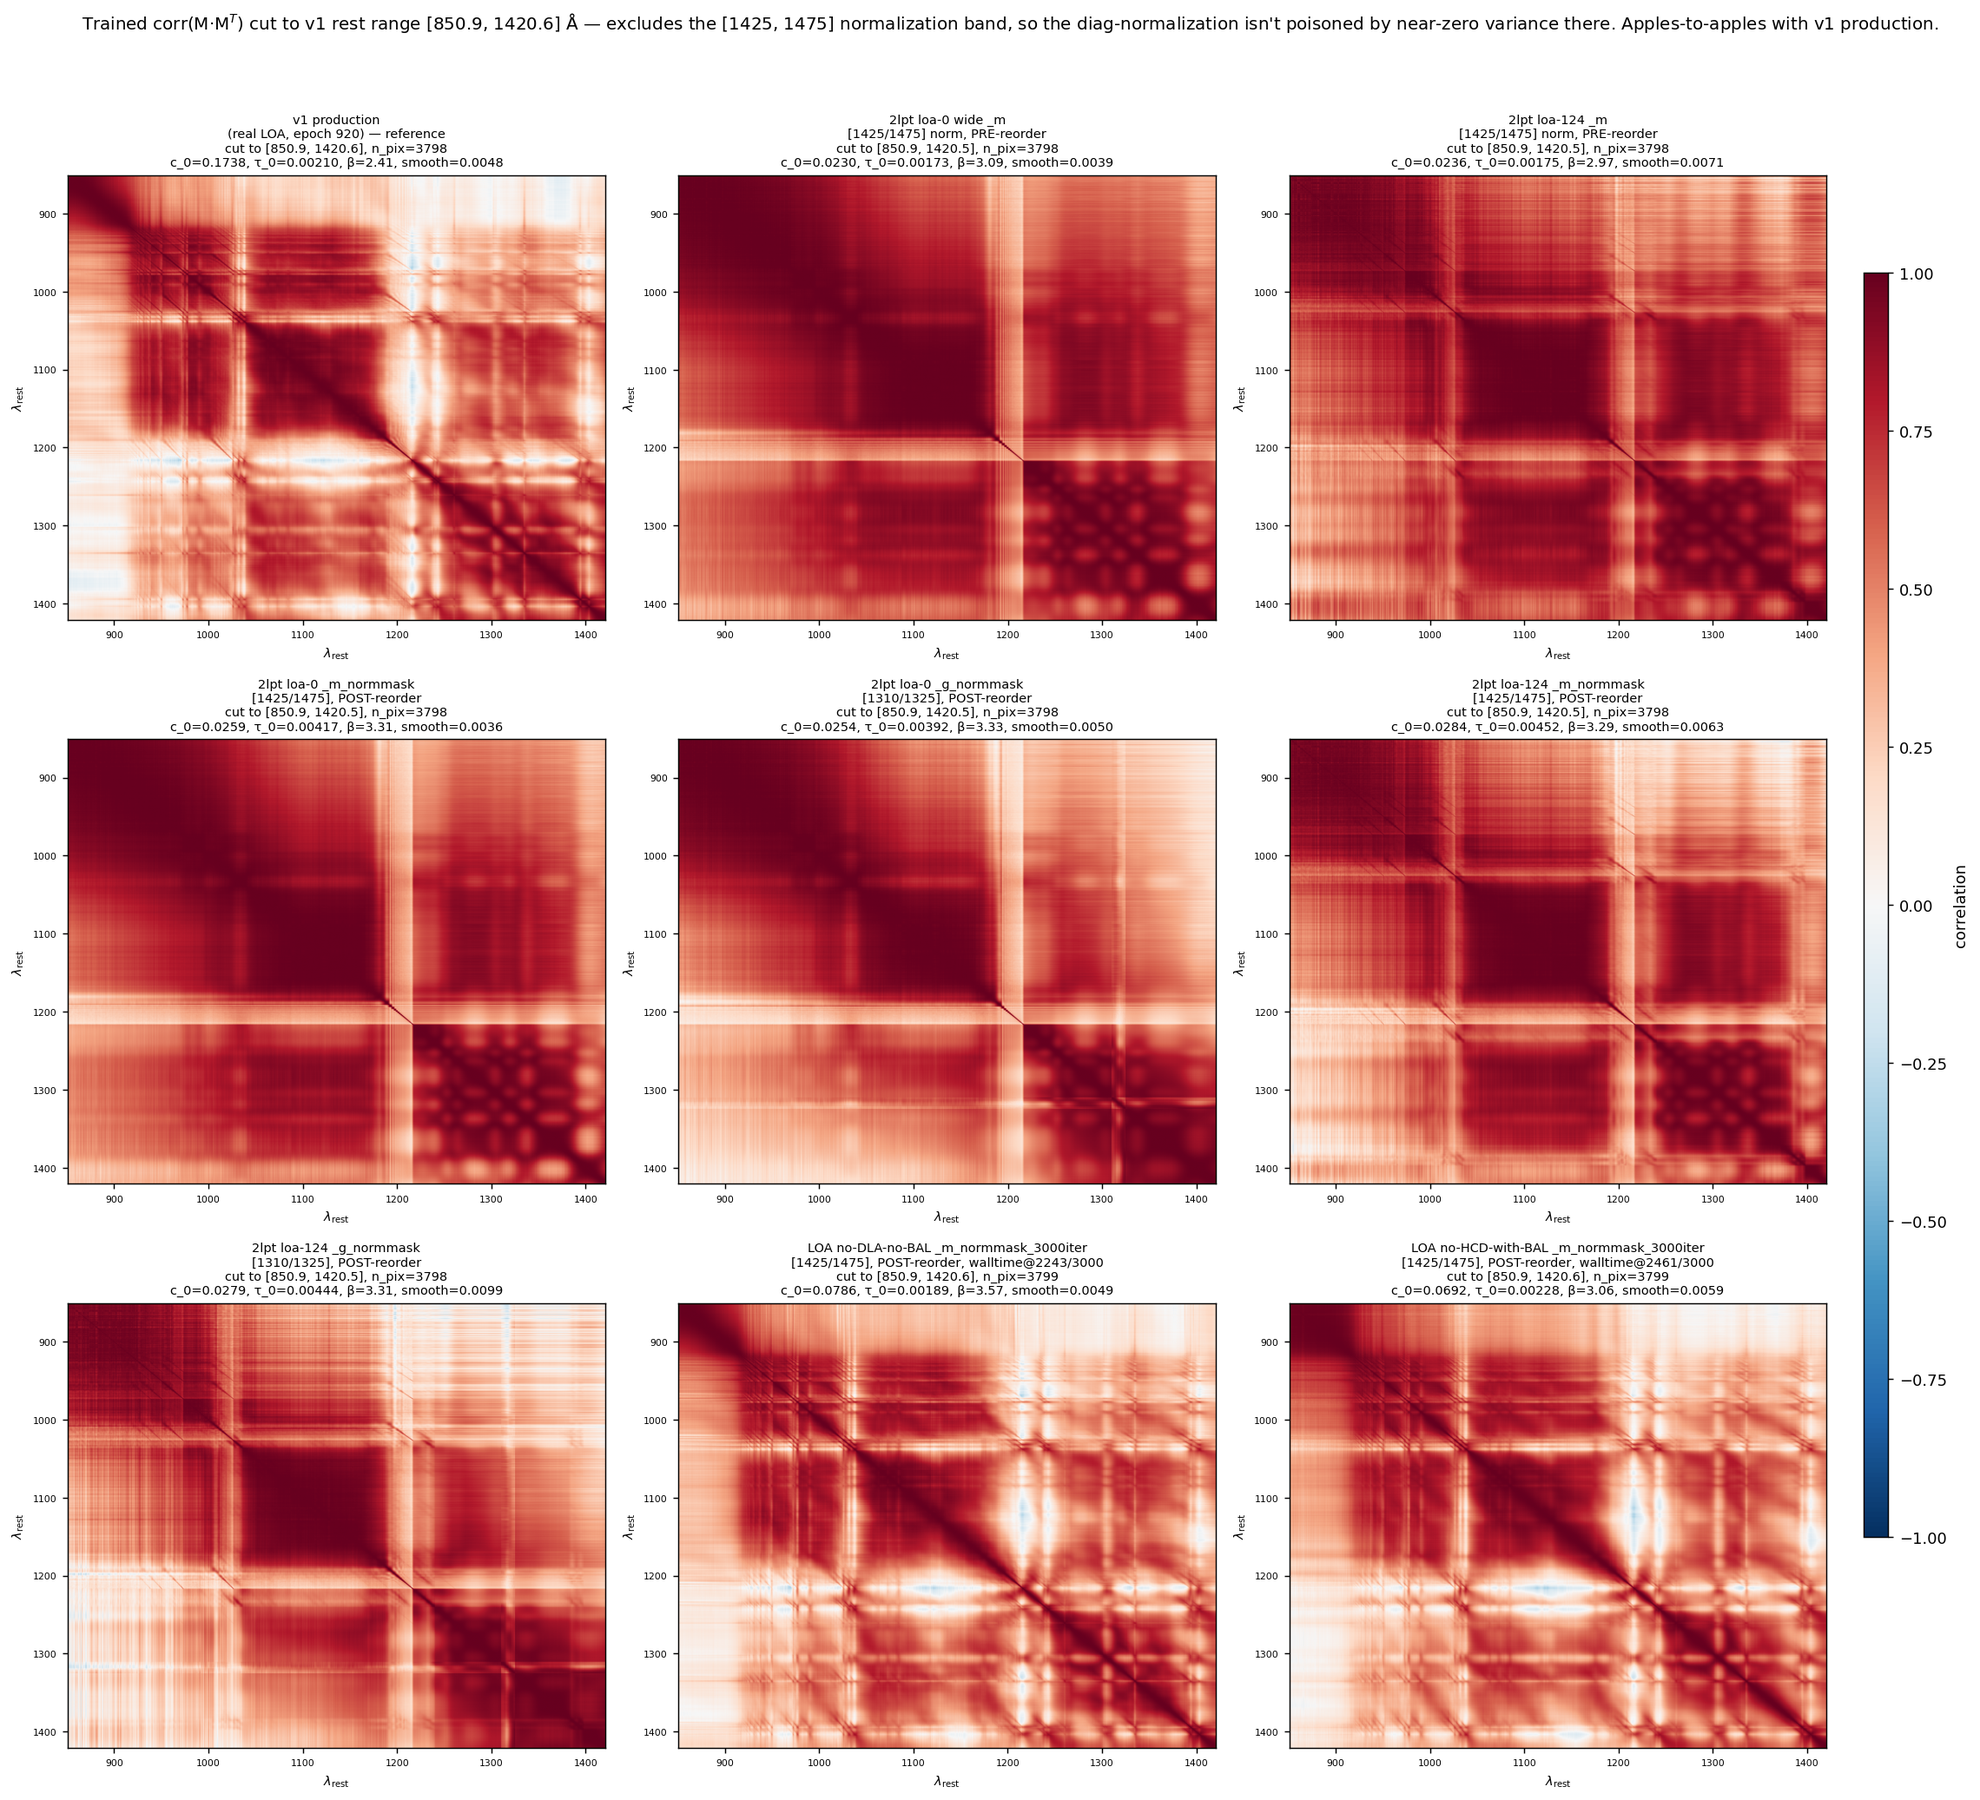
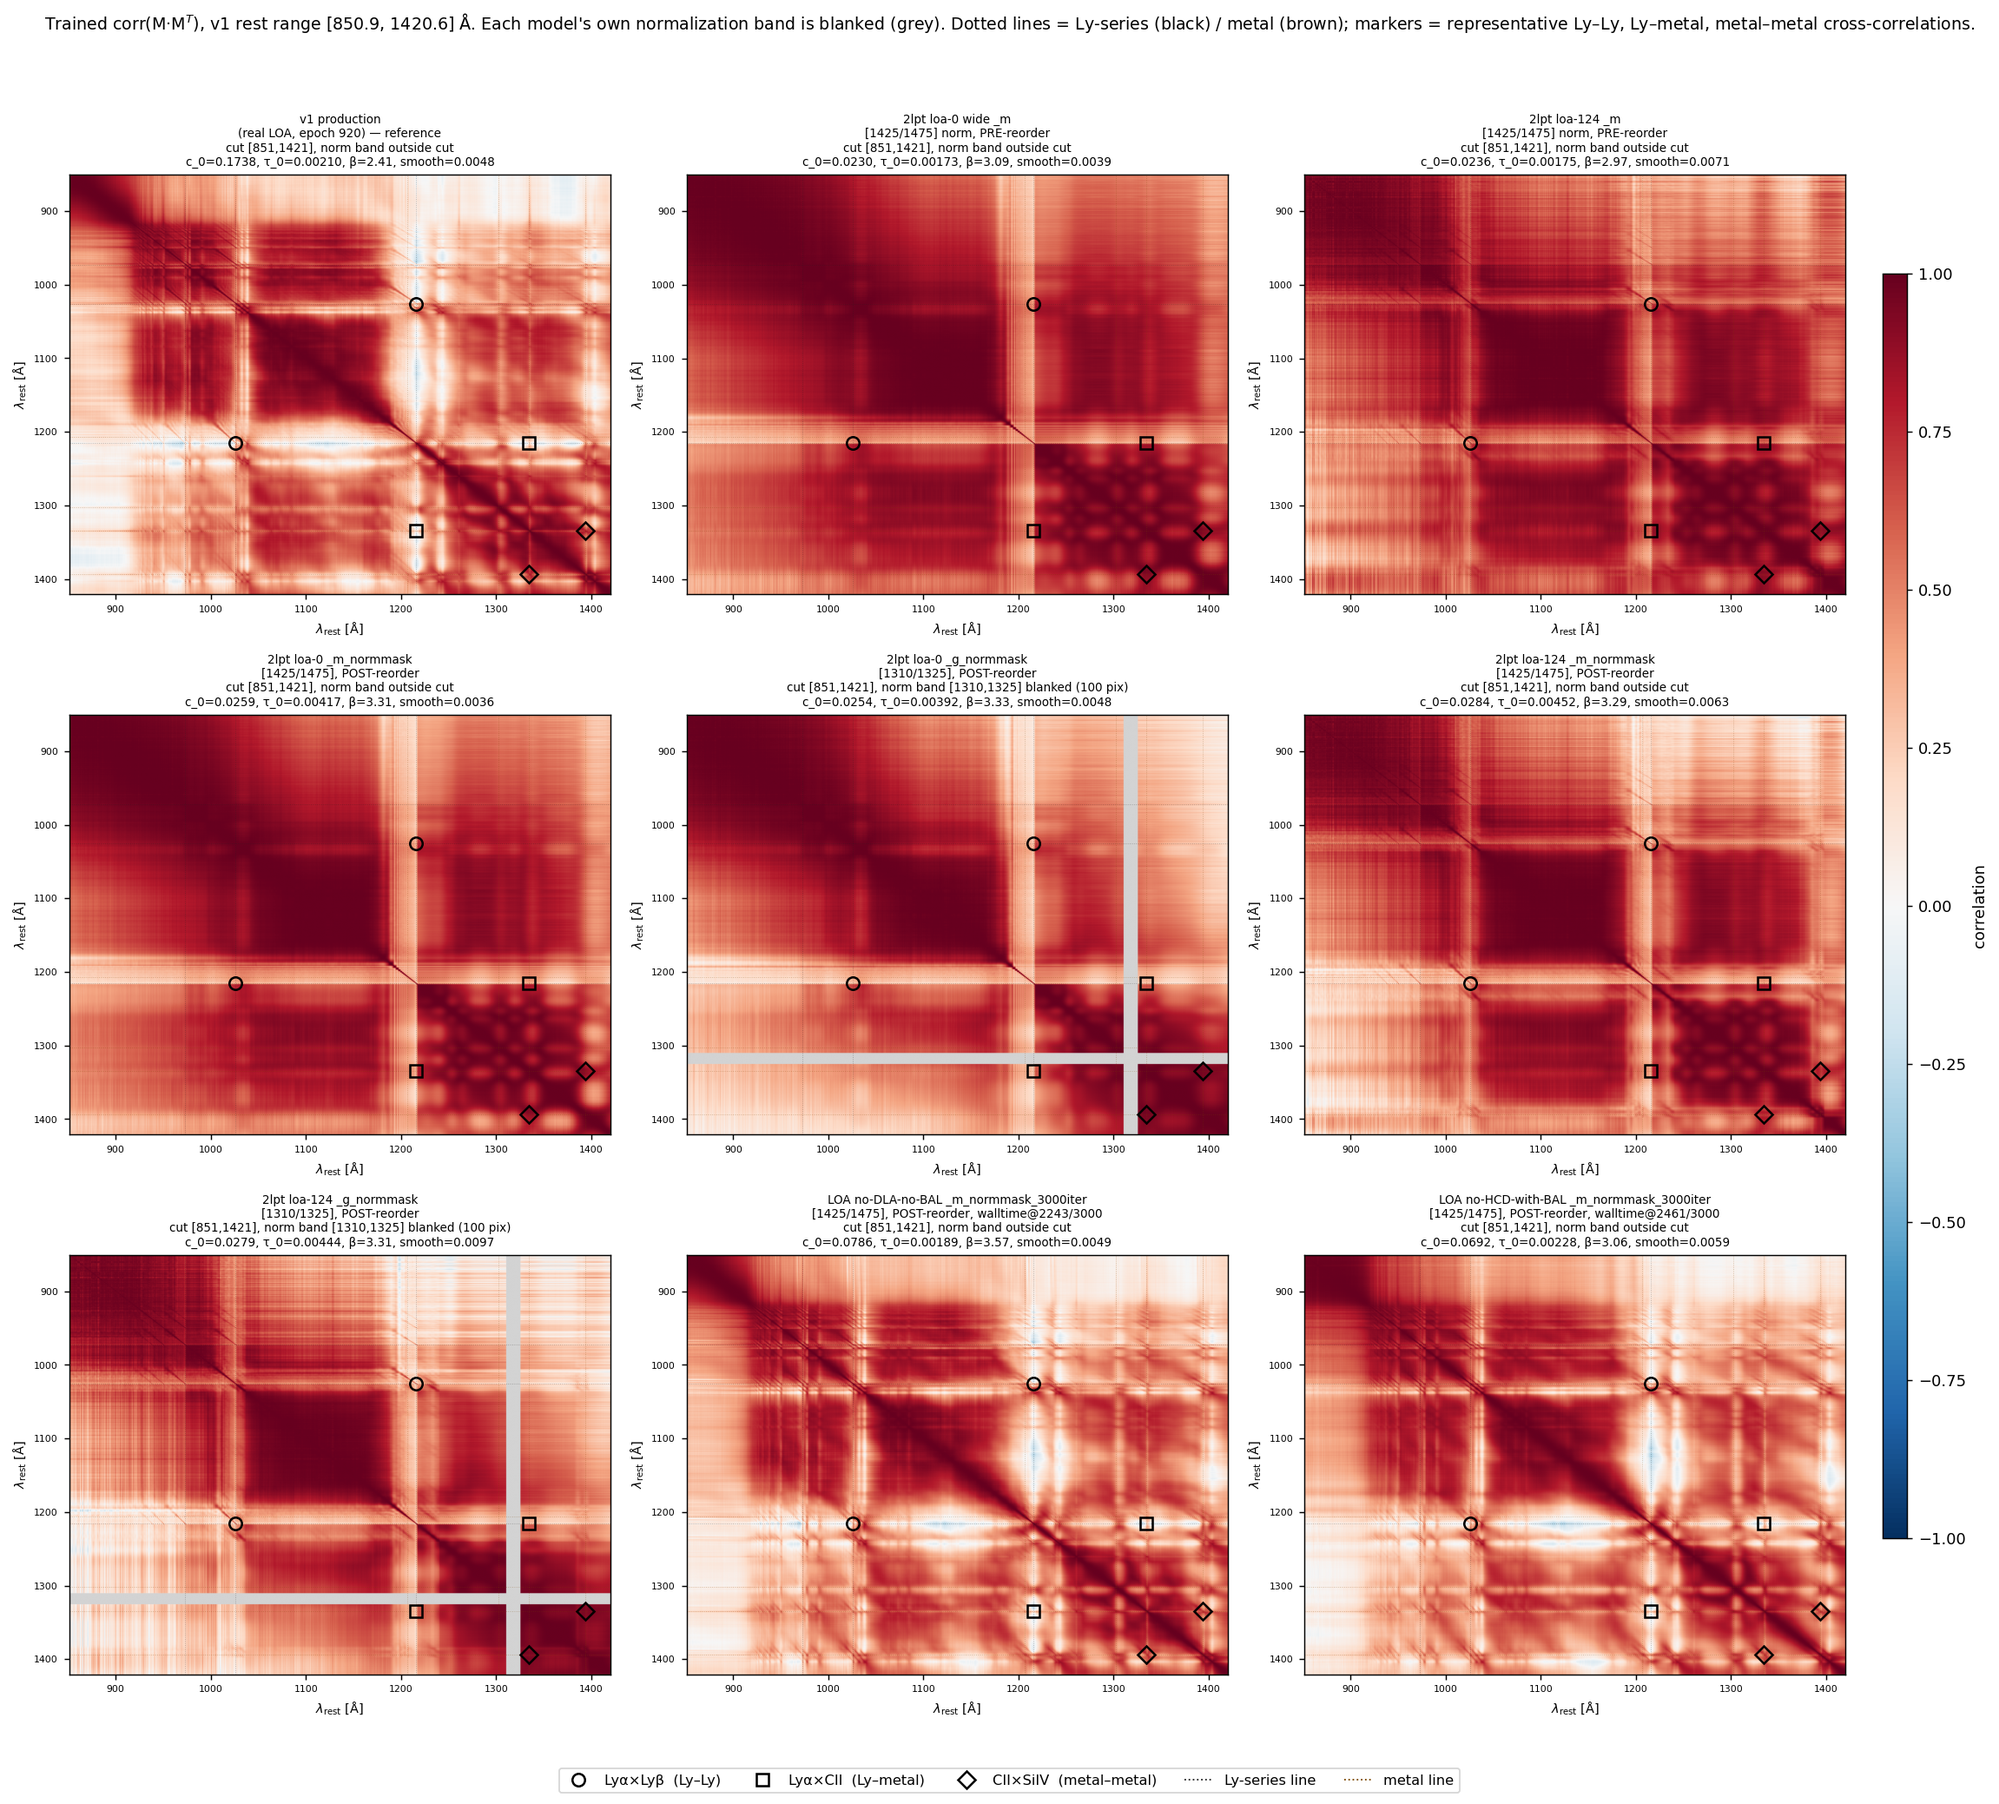
Kernel corr matrices: per-model norm-band blanking + line cross-corr markers
plot_kernels_v1_rest_range.py: the fixed v1-range cut only excluded the
_m models' [1425,1475] normalization band; the _g models' Garnett band
[1310,1325] sits inside the cut and still poisoned the corr-normalization
with a near-zero-variance stripe. Now each model's own normalization band
is read from its .h5 and the corresponding corr rows/cols are blanked
(rendered grey).

Also overlays minimal line annotations: faint Ly-series / metal gridlines
on both axes, and three representative cross-correlation markers — Ly-Ly
(Lyα×Lyβ), Ly-metal (Lyα×CII), metal-metal (CII×SiIV) — so off-diagonal
structure can be read against known transitions.

diff --git a/examples/plot_kernels_v1_rest_range.py b/examples/plot_kernels_v1_rest_range.py
@@ -1,14 +1,24 @@
-"""Compare trained GP kernels on the v1 rest range [850.90, 1420.60].
+"""Compare trained GP kernels — corr(M·M^T) — on the v1 rest range.
 
-Why: the wide v2 rest grid [850.75, 1700] includes the per-spectrum
-normalization region [1425, 1475], where by construction the centered
-flux variance is near zero → K[i,i] = Σ_k M[i,k]² ≈ 0 → corr[i,j] =
-K[i,j]/√(K[i,i]·K[j,j]) blows up. The bright stripes near λ ~ 1450 in
-`2026-05-13_all_trained_kernels.png` are this artifact, NOT physics.
+Why the v1-range cut: the wide v2 rest grid [850.75, 1700] includes each
+model's per-spectrum normalization band, where by construction the
+centered flux variance is near zero -> K[i,i] = Sum_k M[i,k]^2 ~ 0 ->
+corr[i,j] = K[i,j]/sqrt(K[i,i]*K[j,j]) blows up.
 
-Cutting M to rest_λ ≤ 1420.60 (matching v1's grid) eliminates the
-normalization region from the corr-normalization denominator, giving an
-apples-to-apples comparison with v1 production.
+Two-part normalization-band exclusion:
+  1. Cut every model to rest_lambda <= 1420.60 (v1's grid). This drops
+     the MATLAB-band [1425, 1475] used by the `_m` models and keeps the
+     comparison apples-to-apples with v1 production.
+  2. Per model, additionally blank the corr rows/cols inside THAT model's
+     own normalization band (read from the .h5). This catches the
+     Garnett-band [1310, 1325] used by the `_g` models, which sits inside
+     the v1 cut and would otherwise still poison the panel.
+
+Line markers: minimal Ly-series + metal absorption lines are drawn as
+faint gridlines on both axes, and three representative cross-correlation
+points are marked — Ly-Ly (Lya x Lyb), Ly-metal (Lya x CII), and
+metal-metal (CII x SiIV) — so the off-diagonal structure can be read
+against known transitions.
 
 Output: docs/notes/2026-05-13_kernels_v1_rest_range.png
 """
@@ -29,6 +39,17 @@ OUT = NOTES / "2026-05-13_kernels_v1_rest_range.png"
 # v1 rest range — everything else gets cut to this:
 V1_REST_MAX = 1420.60
 V1_REST_MIN = 850.90
+
+# Minimal line set for axis gridlines (vacuum rest Å, within the v1 range).
+LY_LINES = {"Lyγ": 972.54, "Lyβ": 1025.72, "Lyα": 1215.67}
+METAL_LINES = {"SiIII": 1206.50, "OI": 1302.17, "CII": 1334.53, "SiIV": 1393.76}
+
+# Three representative cross-correlation points: (label, kind, λ_x, λ_y).
+CROSS_POINTS = [
+    ("Lyα×Lyβ  (Ly–Ly)",        "o", 1215.67, 1025.72),
+    ("Lyα×CII  (Ly–metal)",     "s", 1215.67, 1334.53),
+    ("CII×SiIV  (metal–metal)", "D", 1334.53, 1393.76),
+]
 
 ENTRIES = [
     # (display_name, path, kind)
@@ -66,6 +87,10 @@ ENTRIES = [
 
 
 def _load_M_rest(path, kind):
+    """Return (M, rest_wavelengths, scalars, norm_band).
+
+    norm_band is (min, max) Å read from the .h5, or None if absent."""
+    norm_band = None
     if kind == "h5":
         with h5py.File(path, "r") as f:
             M = np.asarray(f["M"][:], dtype=np.float64)
@@ -73,12 +98,12 @@ def _load_M_rest(path, kind):
             log_c_0 = float(f["log_c_0"][()]) if "log_c_0" in f else float("nan")
             log_tau_0 = float(f["log_tau_0"][()]) if "log_tau_0" in f else float("nan")
             log_beta = float(f["log_beta"][()]) if "log_beta" in f else float("nan")
+            if "normalization_min_lambda" in f and "normalization_max_lambda" in f:
+                norm_band = (float(f["normalization_min_lambda"][()]),
+                             float(f["normalization_max_lambda"][()]))
     else:  # pt
         ckpt = torch.load(path, map_location="cpu", weights_only=False)
         M = ckpt["M"].detach().cpu().numpy().astype(np.float64)
-        # Generate rest grid from M shape (all wide v2 preloads start at
-        # 850.75 with dλ=0.15; LOA has n_pix=5663, 2lpt has 5662 — proxy
-        # h5 lookup gets the count wrong by one).
         n_pix = M.shape[0]
         rest = 850.75 + 0.15 * np.arange(n_pix, dtype=np.float64)
         log_c_0 = float(ckpt["log_c_0"].item())
@@ -87,7 +112,7 @@ def _load_M_rest(path, kind):
     scalars = dict(c_0=float(np.exp(log_c_0)),
                    tau_0=float(np.exp(log_tau_0)),
                    beta=float(np.exp(log_beta)))
-    return M, rest, scalars
+    return M, rest, scalars, norm_band
 
 
 def _cut_to_v1_range(M, rest):
@@ -102,11 +127,29 @@ def _corr(M):
     return np.clip(K / np.outer(d, d), -1.0, 1.0)
 
 
+def _blank_norm_band(C, restc, norm_band):
+    """NaN-out corr rows/cols inside the model's own normalization band so
+    its near-zero-variance stripe doesn't show. Returns (C, n_blanked)."""
+    if norm_band is None:
+        return C, 0
+    lo, hi = norm_band
+    in_band = (restc >= lo) & (restc <= hi)
+    if not in_band.any():
+        return C, 0
+    C = C.copy()
+    C[in_band, :] = np.nan
+    C[:, in_band] = np.nan
+    return C, int(in_band.sum())
+
+
 def main():
     OUT.parent.mkdir(parents=True, exist_ok=True)
     rows, cols = 3, 3
     fig, axes = plt.subplots(rows, cols, figsize=(18, 16))
     axes_flat = axes.flatten()
+
+    cmap = matplotlib.cm.RdBu_r.copy()
+    cmap.set_bad("lightgrey")   # NaN (blanked norm band) renders grey
 
     for ax, (name, path, kind) in zip(axes_flat, ENTRIES):
         if not Path(path).exists():
@@ -116,22 +159,41 @@ def main():
             ax.set_xticks([]); ax.set_yticks([])
             continue
         try:
-            M, rest, sc = _load_M_rest(path, kind)
+            M, rest, sc, norm_band = _load_M_rest(path, kind)
             Mc, restc = _cut_to_v1_range(M, rest)
             C = _corr(Mc)
-            adj = float(np.abs(np.diff(C, axis=1)).mean())
+            C, n_blank = _blank_norm_band(C, restc, norm_band)
+            adj = float(np.nanmean(np.abs(np.diff(C, axis=1))))
             extent = [restc[0], restc[-1], restc[-1], restc[0]]
-            ax.imshow(C, cmap="RdBu_r", vmin=-1, vmax=1,
+            ax.imshow(C, cmap=cmap, vmin=-1, vmax=1,
                       extent=extent, aspect="auto")
+            band_txt = (f"norm band [{norm_band[0]:.0f},{norm_band[1]:.0f}] "
+                        f"blanked ({n_blank} pix)" if n_blank
+                        else "norm band outside cut")
             title = (f"{name}\n"
-                     f"cut to [{restc[0]:.1f}, {restc[-1]:.1f}], "
-                     f"n_pix={len(restc)}\n"
+                     f"cut [{restc[0]:.0f},{restc[-1]:.0f}], {band_txt}\n"
                      f"c_0={sc['c_0']:.4f}, τ_0={sc['tau_0']:.5f}, "
                      f"β={sc['beta']:.2f}, smooth={adj:.4f}")
-            ax.set_title(title, fontsize=8)
-            ax.set_xlabel(r"$\lambda_\mathrm{rest}$", fontsize=8)
-            ax.set_ylabel(r"$\lambda_\mathrm{rest}$", fontsize=8)
+            ax.set_title(title, fontsize=7.5)
+            ax.set_xlabel(r"$\lambda_\mathrm{rest}$ [Å]", fontsize=8)
+            ax.set_ylabel(r"$\lambda_\mathrm{rest}$ [Å]", fontsize=8)
             ax.tick_params(labelsize=6)
+
+            # Faint gridlines at the Ly + metal lines (both axes).
+            for lname, lw_ in {**LY_LINES, **METAL_LINES}.items():
+                if not (restc[0] < lw_ < restc[-1]):
+                    continue
+                is_ly = lname in LY_LINES
+                col = "#222222" if is_ly else "#7a4500"
+                for axline in (ax.axvline, ax.axhline):
+                    axline(lw_, color=col, lw=0.5, ls=":", alpha=0.30)
+            # Three representative cross-correlation points.
+            for label, marker, lx, ly in CROSS_POINTS:
+                if (restc[0] < lx < restc[-1]) and (restc[0] < ly < restc[-1]):
+                    ax.plot(lx, ly, marker=marker, ms=8, mfc="none",
+                            mec="black", mew=1.4, linestyle="none")
+                    ax.plot(ly, lx, marker=marker, ms=8, mfc="none",
+                            mec="black", mew=1.4, linestyle="none")
         except Exception as e:
             ax.text(0.5, 0.5, f"{name}\n\nERROR\n{type(e).__name__}",
                     ha="center", va="center", transform=ax.transAxes,
@@ -139,23 +201,33 @@ def main():
             ax.set_xticks([]); ax.set_yticks([])
             print(f"  ERROR on {name}: {e!r}")
 
-    # Hide unused axes
     for ax in axes_flat[len(ENTRIES):]:
         ax.set_visible(False)
 
-    cbar_ax = fig.add_axes([0.92, 0.15, 0.012, 0.7])
+    cbar_ax = fig.add_axes([0.93, 0.15, 0.012, 0.7])
     sm = plt.cm.ScalarMappable(cmap="RdBu_r",
                                norm=matplotlib.colors.Normalize(vmin=-1, vmax=1))
     fig.colorbar(sm, cax=cbar_ax, label="correlation")
 
+    # Legend for the cross-correlation markers.
+    handles = [plt.Line2D([], [], marker=mk, ms=8, mfc="none", mec="black",
+                          mew=1.4, linestyle="none", label=lbl)
+               for lbl, mk, _, _ in CROSS_POINTS]
+    handles += [
+        plt.Line2D([], [], color="#222222", lw=1.0, ls=":", label="Ly-series line"),
+        plt.Line2D([], [], color="#7a4500", lw=1.0, ls=":", label="metal line"),
+    ]
+    fig.legend(handles=handles, loc="lower center", ncol=5, fontsize=9,
+               frameon=True, bbox_to_anchor=(0.5, 0.005))
+
     fig.suptitle(
-        f"Trained corr(M·M$^T$) cut to v1 rest range [{V1_REST_MIN}, "
-        f"{V1_REST_MAX}] Å — excludes the [1425, 1475] normalization band, "
-        "so the diag-normalization isn't poisoned by near-zero variance there. "
-        "Apples-to-apples with v1 production.",
-        fontsize=11, y=0.995,
+        f"Trained corr(M·M$^T$), v1 rest range [{V1_REST_MIN}, {V1_REST_MAX}] Å. "
+        "Each model's own normalization band is blanked (grey). Dotted lines = "
+        "Ly-series (black) / metal (brown); markers = representative "
+        "Ly–Ly, Ly–metal, metal–metal cross-correlations.",
+        fontsize=10.5, y=0.995,
     )
-    fig.tight_layout(rect=[0, 0, 0.91, 0.97])
+    fig.tight_layout(rect=[0, 0.04, 0.92, 0.97])
     fig.savefig(OUT, dpi=130, bbox_inches="tight")
     plt.close(fig)
     print(f"\n[saved] {OUT}")
